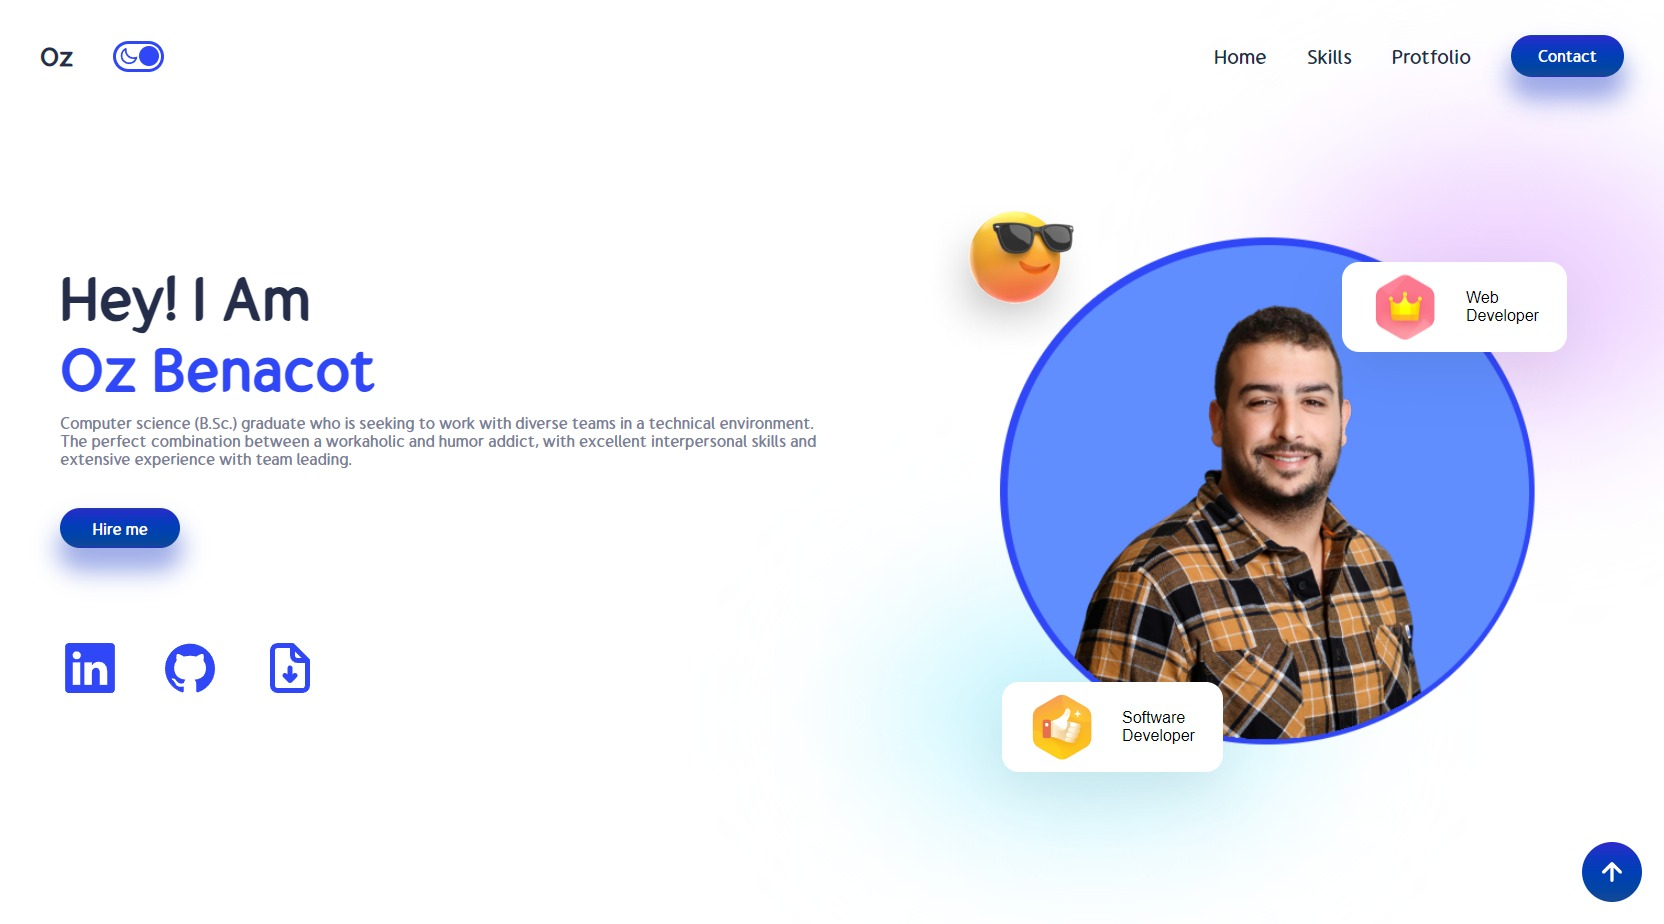
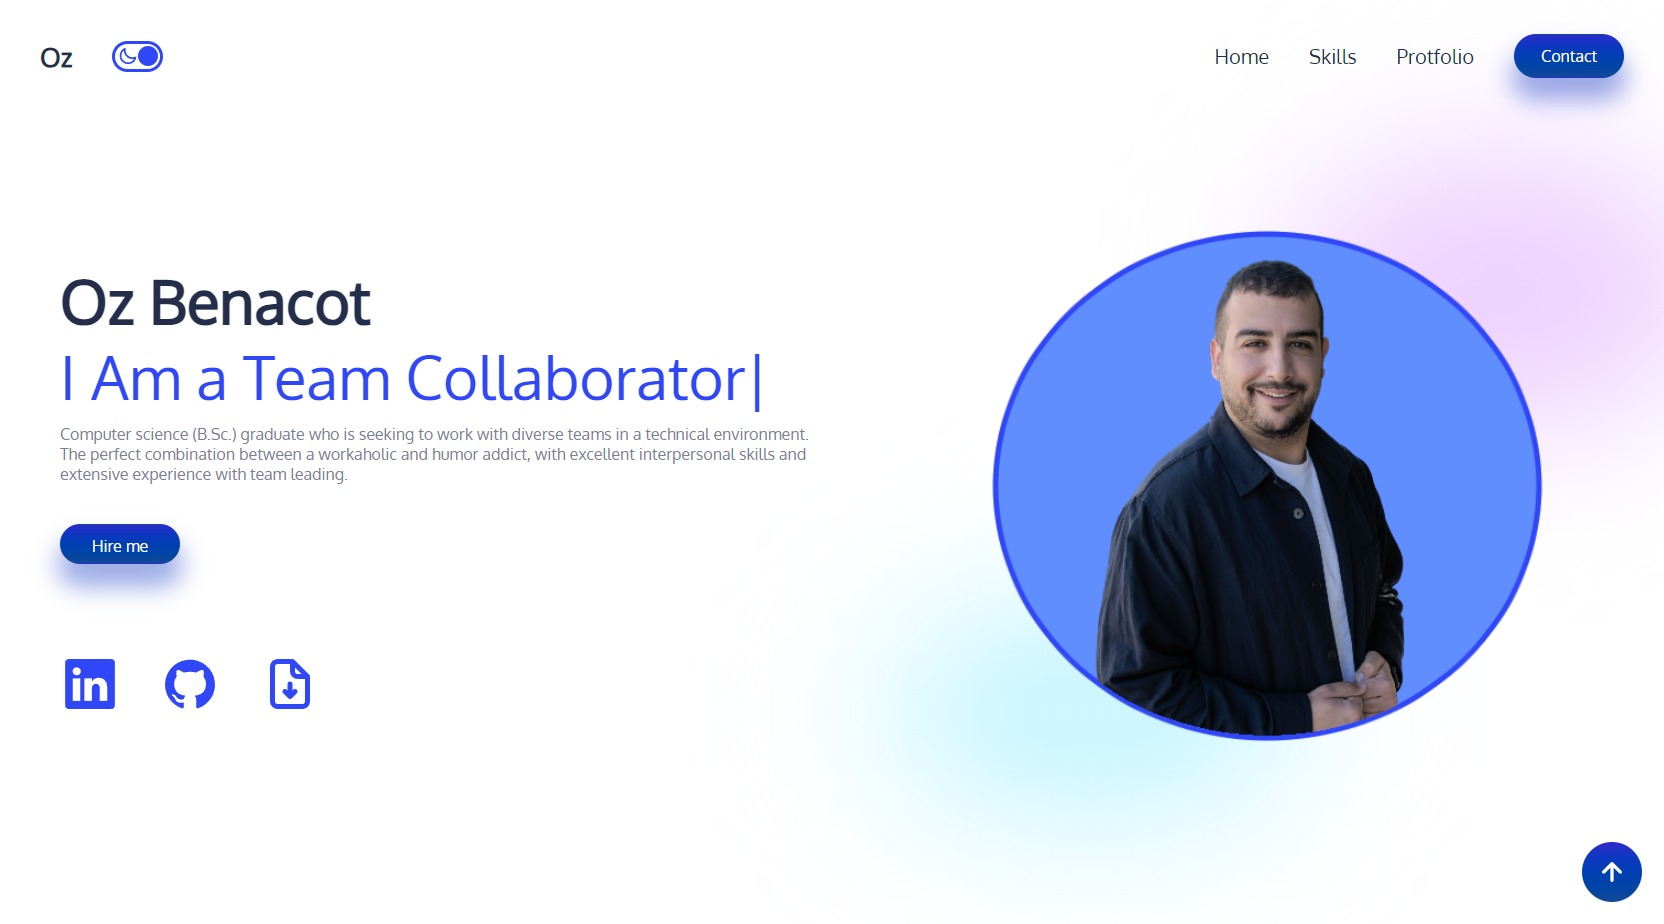
fixPhotos

diff --git a/src/Component/Intro/Intro.jsx b/src/Component/Intro/Intro.jsx
@@ -4,15 +4,10 @@ import Github from "@iconscout/react-unicons/icons/uil-github";
 import LinkedIn from "@iconscout/react-unicons/icons/uil-linkedin";
 import File from "@iconscout/react-unicons/icons/uil-file-download";
 import Resume from "../../Documents/CV.pdf";
-import ProfilePic from "../../img/Oz1.png";
-
-import Thumbup from "../../img/thumbup.png";
-import Crown from "../../img/crown.png";
-import Glassesimoji from "../../img/glassesimoji.png";
-import FloatingDiv from "../FloatingDiv/FloatingDiv";
+import ProfilePic from "../../img/Oz2.png";
+import Typewriter from "typewriter-effect";
 import { themeContext } from "../../Context";
 import { useContext } from "react";
-import { motion } from "framer-motion";
 import { Link } from "react-scroll";
 
 function Intro() {
@@ -28,14 +23,38 @@ function Intro() {
       navigator.msMaxTouchPoints > 0
     );
   };
-  console.log(isTouchDevice());
 
   return (
     <div className="intro">
       <div className="i-left">
         <div className="i-name">
-          <span style={{ color: darkMode ? "white" : "" }}>Hey! I Am</span>
-          <span>Oz Benacot</span>
+          <span style={{ color: darkMode ? "white" : "" }}>Oz Benacot</span>
+          <div
+            className="writer"
+            style={
+              isTouchDevice()
+                ? { height: "11.5rem", overflow: "hidden" }
+                : { display: "flex", alignItems: "center" }
+            }
+          >
+            <span style={{ marginRight: "15px" }}>I Am </span>
+            <Typewriter
+              style={{ height: "1em", overflow: "hidden" }}
+              options={{
+                strings: [
+                  "Fullstack Developer",
+                  "Software Developer",
+                  "a Team Collaborator",
+                ],
+                autoStart: true,
+                loop: true,
+                deleteSpeed: 30,
+                delay: 50,
+                wrapperClassName: "writer",
+                cursorClassName: "t-cursor",
+              }}
+            />
+          </div>
           <span>
             Computer science (B.Sc.) graduate who is seeking to work with
             diverse teams in a technical environment.
@@ -61,37 +80,7 @@ function Intro() {
         </div>
       </div>
       <div className="i-right">
-        <img src={ProfilePic} alt="" />
-
-        <motion.img
-          initial={{ top: "-5rem", left: "-3rem" }}
-          whileInView={
-            isTouchDevice()
-              ? { top: "-5rem", left: "4rem" }
-              : { top: "-5rem", left: "2rem" }
-          }
-          transition={transition}
-          src={Glassesimoji}
-          alt=""
-        />
-        <motion.div
-          initial={{ top: "0px", left: "32rem" }}
-          whileInView={ { top: "0rem", left: "25rem" }}
-          transition={transition}
-          className="floating-div"
-        >
-          <FloatingDiv image={Crown} txt1="Web" txt2="Developer" />
-        </motion.div>
-        <motion.div
-          initial={{ top: "21rem", left: "2rem" }}
-          whileInView={{ top: "21rem", left: "8rem" }}
-          transition={transition}
-          className="floating-div"
-        >
-          <FloatingDiv image={Thumbup} txt1="Software" txt2="Developer" />
-        </motion.div>
-
-        {/* blur divs */}
+        <img src={ProfilePic} alt="" className="porfilePic" />
         <div className="blur" style={{ background: "rgb (238 210 255)" }}></div>
         <div
           className="blur"

diff --git a/public/index.html b/public/index.html
@@ -8,47 +8,28 @@
       name="description"
       content="Web site created using create-react-app"
     />
+
+    <!-- Google Fonts Links -->
+    <link rel="preconnect" href="https://fonts.googleapis.com">
+    <link rel="preconnect" href="https://fonts.gstatic.com" crossorigin>
+    <link href="https://fonts.googleapis.com/css2?family=Oxygen&display=swap" rel="stylesheet">
+
     <style>
-      @font-face{
-        font-family: Gumela;
-        src: url('../src/fonts/*'); 
-      }
-      *{
-        font-family: 'Gumela';
+      /* Updated CSS */
+      * {
+        font-family: 'Oxygen', sans-serif;
         font-weight: normal;
         font-size: 20px;
       }
-      body{
+      body {
         margin: 0;
       }
     </style>
-    <!--
-      manifest.json provides metadata used when your web app is installed on a
-      user's mobile device or desktop. See https://developers.google.com/web/fundamentals/web-app-manifest/
-    -->
-    <!--
-      Notice the use of %PUBLIC_URL% in the tags above.
-      It will be replaced with the URL of the `public` folder during the build.
-      Only files inside the `public` folder can be referenced from the HTML.
 
-      Unlike "/favicon.ico" or "favicon.ico", "%PUBLIC_URL%/favicon.ico" will
-      work correctly both with client-side routing and a non-root public URL.
-      Learn how to configure a non-root public URL by running `npm run build`.
-    -->
-    <title>Oz Benacot</title>
+    <title>Oz</title>
   </head>
   <body>
     <noscript>You need to enable JavaScript to run this app.</noscript>
     <div id="root"></div>
-    <!--
-      This HTML file is a template.
-      If you open it directly in the browser, you will see an empty page.
-
-      You can add webfonts, meta tags, or analytics to this file.
-      The build step will place the bundled scripts into the <body> tag.
-
-      To begin the development, run `npm start` or `yarn start`.
-      To create a production bundle, use `npm run build` or `yarn build`.
-    -->
   </body>
 </html>

diff --git a/src/Component/Skills/Skills.jsx b/src/Component/Skills/Skills.jsx
@@ -1,8 +1,8 @@
 import React from "react";
 import "./Skills.css";
-import HeartEmoji from "../../img/heartemoji.png";
-import GlassesEmoji from "../../img/glasses.png";
-import HumbleEmoji from "../../img/humble.png";
+import SWDev from "../../img/sw-dev.png";
+import backend from "../../img/backend.png";
+import frontend from "../../img/frontend.png";
 import Card from "../Card/Card";
 import Resume from "../../Documents/CV.pdf";
 import { themeContext } from "../../Context";
@@ -42,7 +42,7 @@ function Skills() {
           transition={transition}
         >
           <Card
-            emoji={HeartEmoji}
+            emoji={SWDev}
             heading={"Software"}
             details={"C#, Java, Python, C++, .Net, Assembly"}
           />
@@ -53,7 +53,7 @@ function Skills() {
           transition={transition}
         >
           <Card
-            emoji={HumbleEmoji}
+            emoji={frontend}
             heading={"Frontend"}
             details={"React, JavaScript, Html, Recoil, Css, MUI"}
           />
@@ -64,7 +64,7 @@ function Skills() {
           transition={transition}
         >
           <Card
-            emoji={GlassesEmoji}
+            emoji={backend}
             heading={"Backend"}
             details={"Node.js, Django, MySql, Express.js"}
           />

diff --git a/src/Component/Intro/Intro.css b/src/Component/Intro/Intro.css
@@ -75,8 +75,16 @@
   left: 0%;
   top: -20%;
 }
-.i-right > :nth-child(2) {
-  transform: scale(0.69);
+
+.writer {
+  font-size: 3rem;
+  width: 102%;
+}
+.writer > * {
+  font-size: 3rem;
+}
+.t-cursor {
+  font-size: 3rem;
 }
 
 .blur {
@@ -99,10 +107,14 @@
     gap: 6rem;
   }
   .i-right {
-    transform: scale(0.7);
-    left: -9rem;
-    margin-top: -8rem;
+    /* transform: scale(0.7); */
+    width: 100%;
+    left: -30%;
   }
+  .i-right > * {
+    width: 150%;
+  }
+
   .i-right .blur {
     display: none;
   }
@@ -111,5 +123,10 @@
   }
   .floating-div:nth-of-type(2) {
     top: 19rem !important;
+  }
+  .writer {
+    width: 100%;
+    font-size: 2.5rem;
+   
   }
 }

diff --git a/src/Component/Card/Card.css b/src/Component/Card/Card.css
@@ -4,7 +4,7 @@
     position: absolute;
     display: flex;
     flex-direction: column;
-    gap: 2rem;
+    /* gap: 2rem; */
     align-items: center;
     width: 10rem;
     text-align: center;
@@ -14,6 +14,7 @@
     border-radius: 20px;
     padding: 0px 26px 2rem 26px;
     
+    
 }
 
 .card span:nth-of-type(2){
@@ -22,8 +23,9 @@
 }
 
 .card > img{
-    transform: scale(0.6);
-    margin-bottom: -2rem;
+    transform: scale(0.15);
+    margin-bottom: -8rem;
+    margin-top: -9.5rem;
 }
 
 .c-button{

diff --git a/src/App.css b/src/App.css
@@ -12,7 +12,7 @@
   padding: 0.5rem 2rem;
   overflow: hidden;
   color: var(--darkBlue);
-  min-width: 1500px;
+  min-width: 1000px;
 }
 
 .button {

diff --git a/src/Component/Portfolio/Portfolio.css b/src/Component/Portfolio/Portfolio.css
@@ -114,4 +114,8 @@
   .s-details {
     width: 15rem;
   }
+  .portfolio img {
+    width: 15rem;
+    height: 8rem;
+  }
 }
